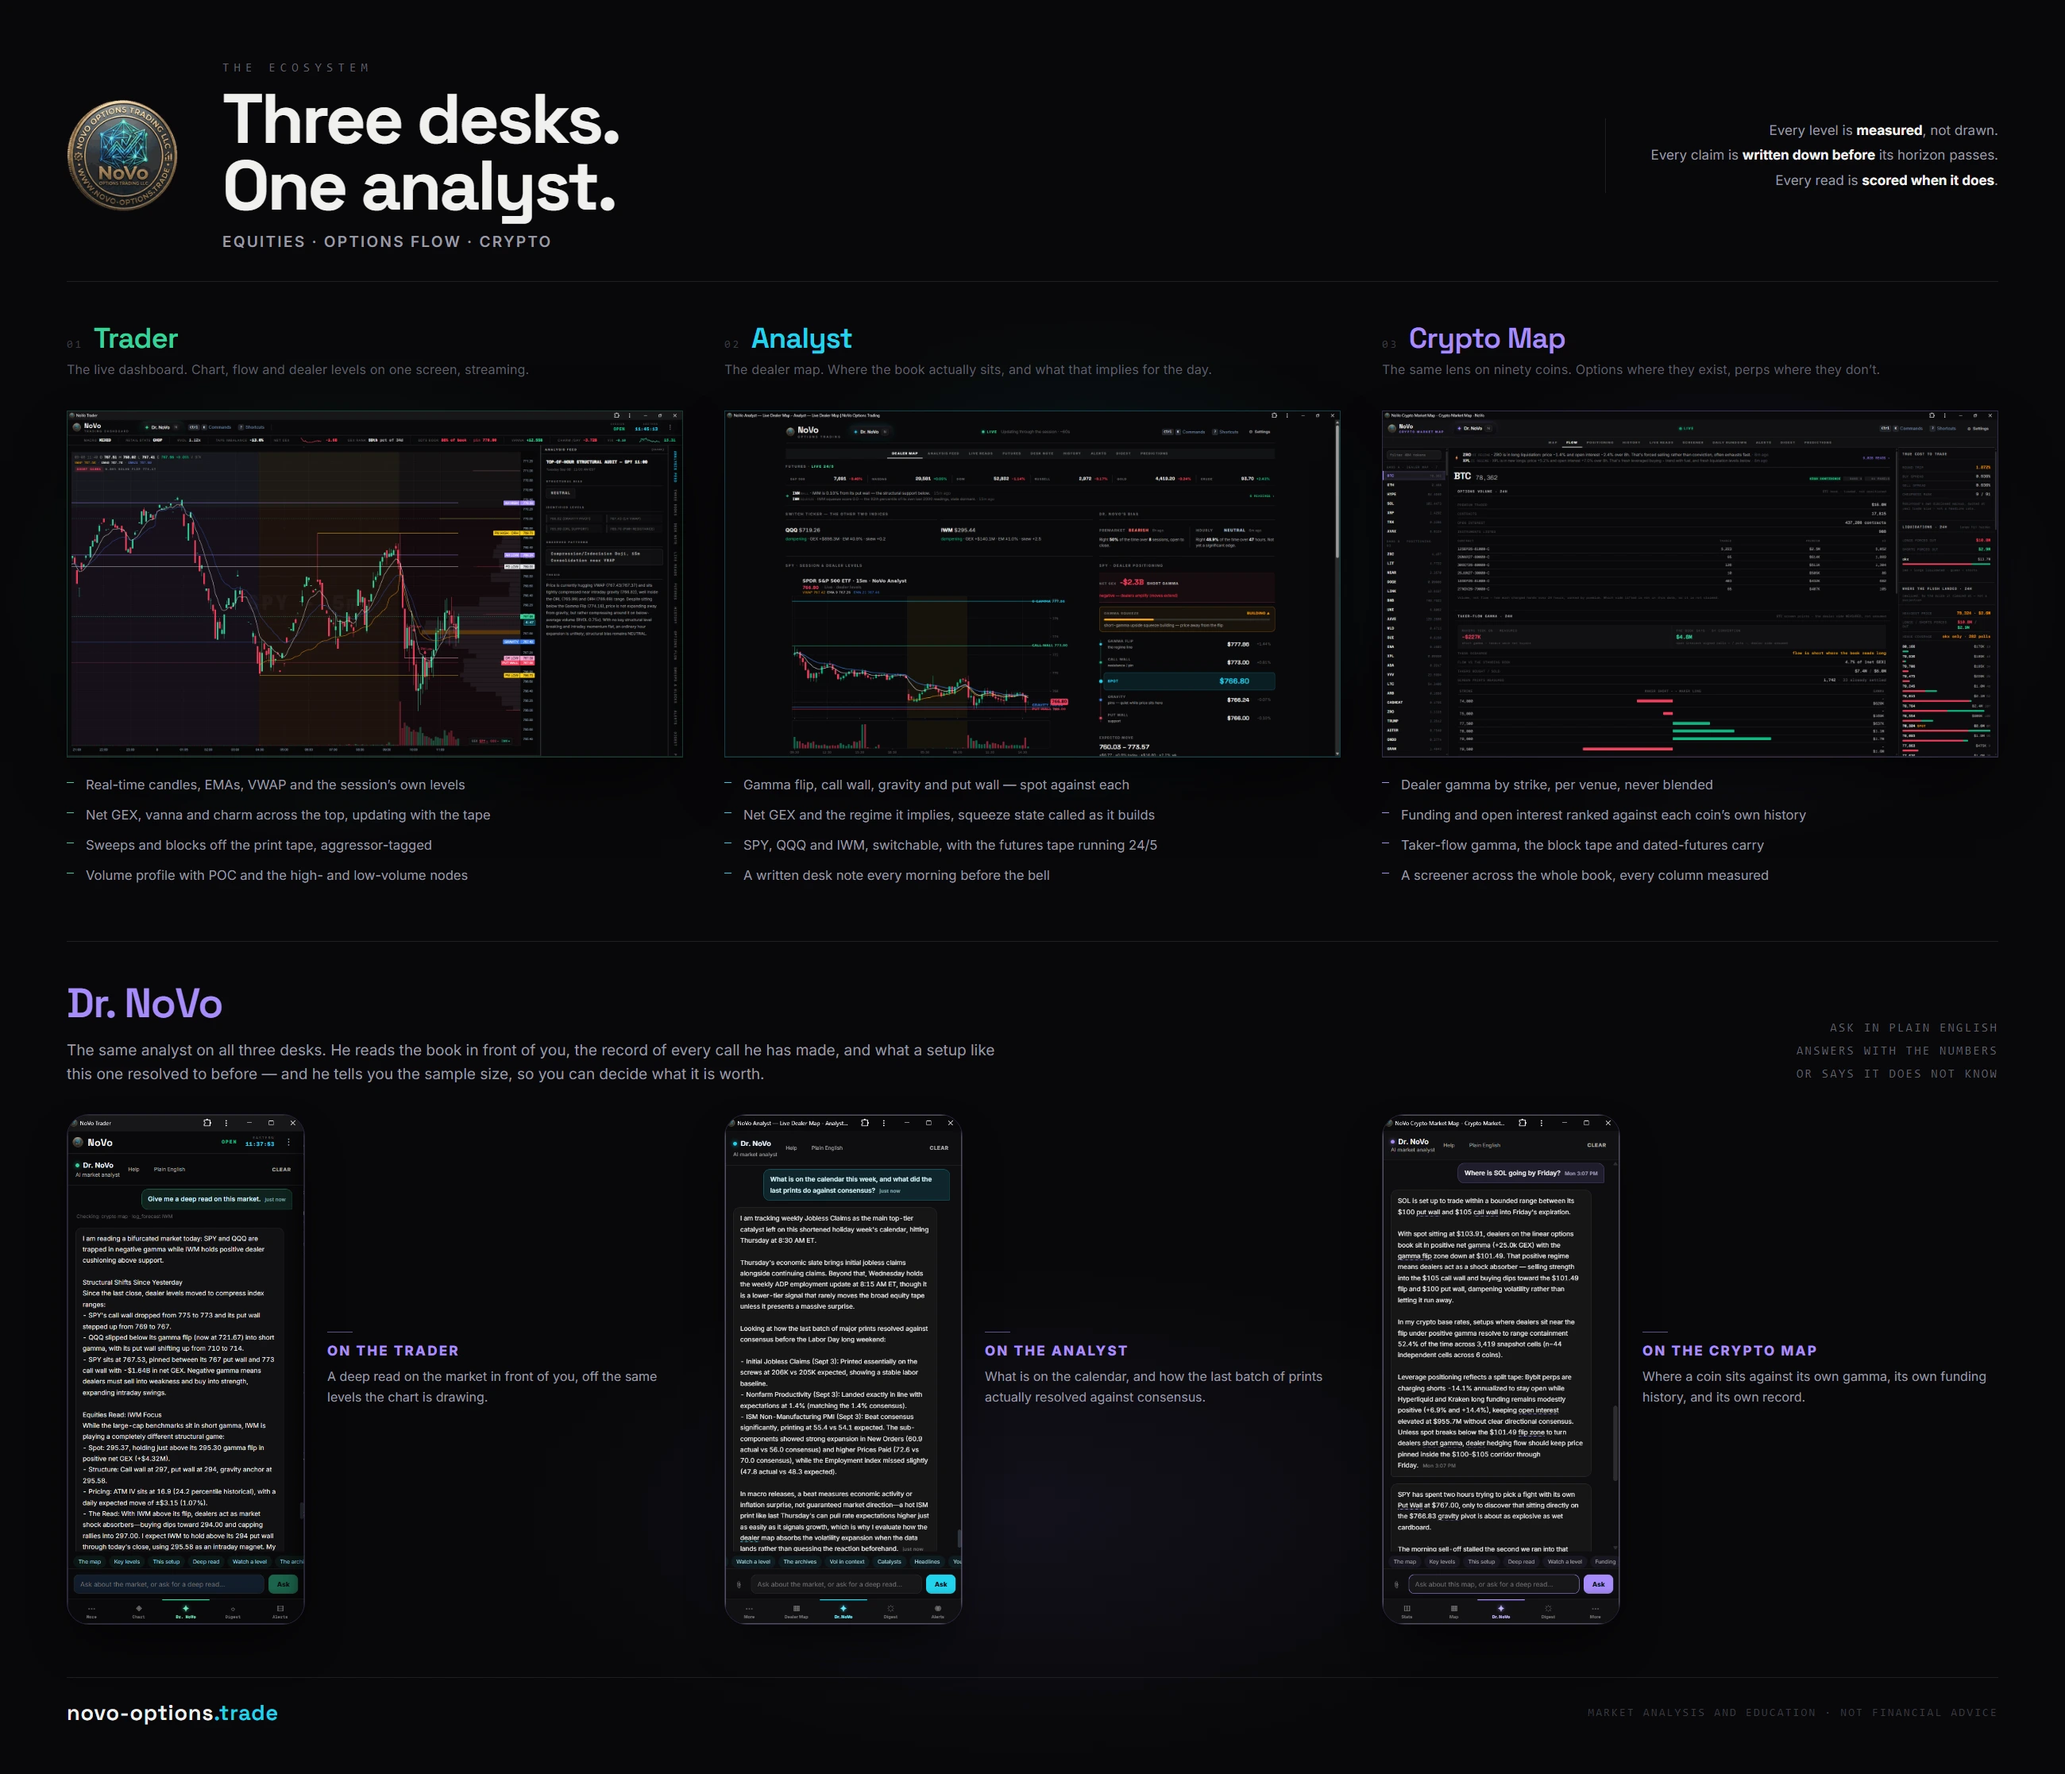
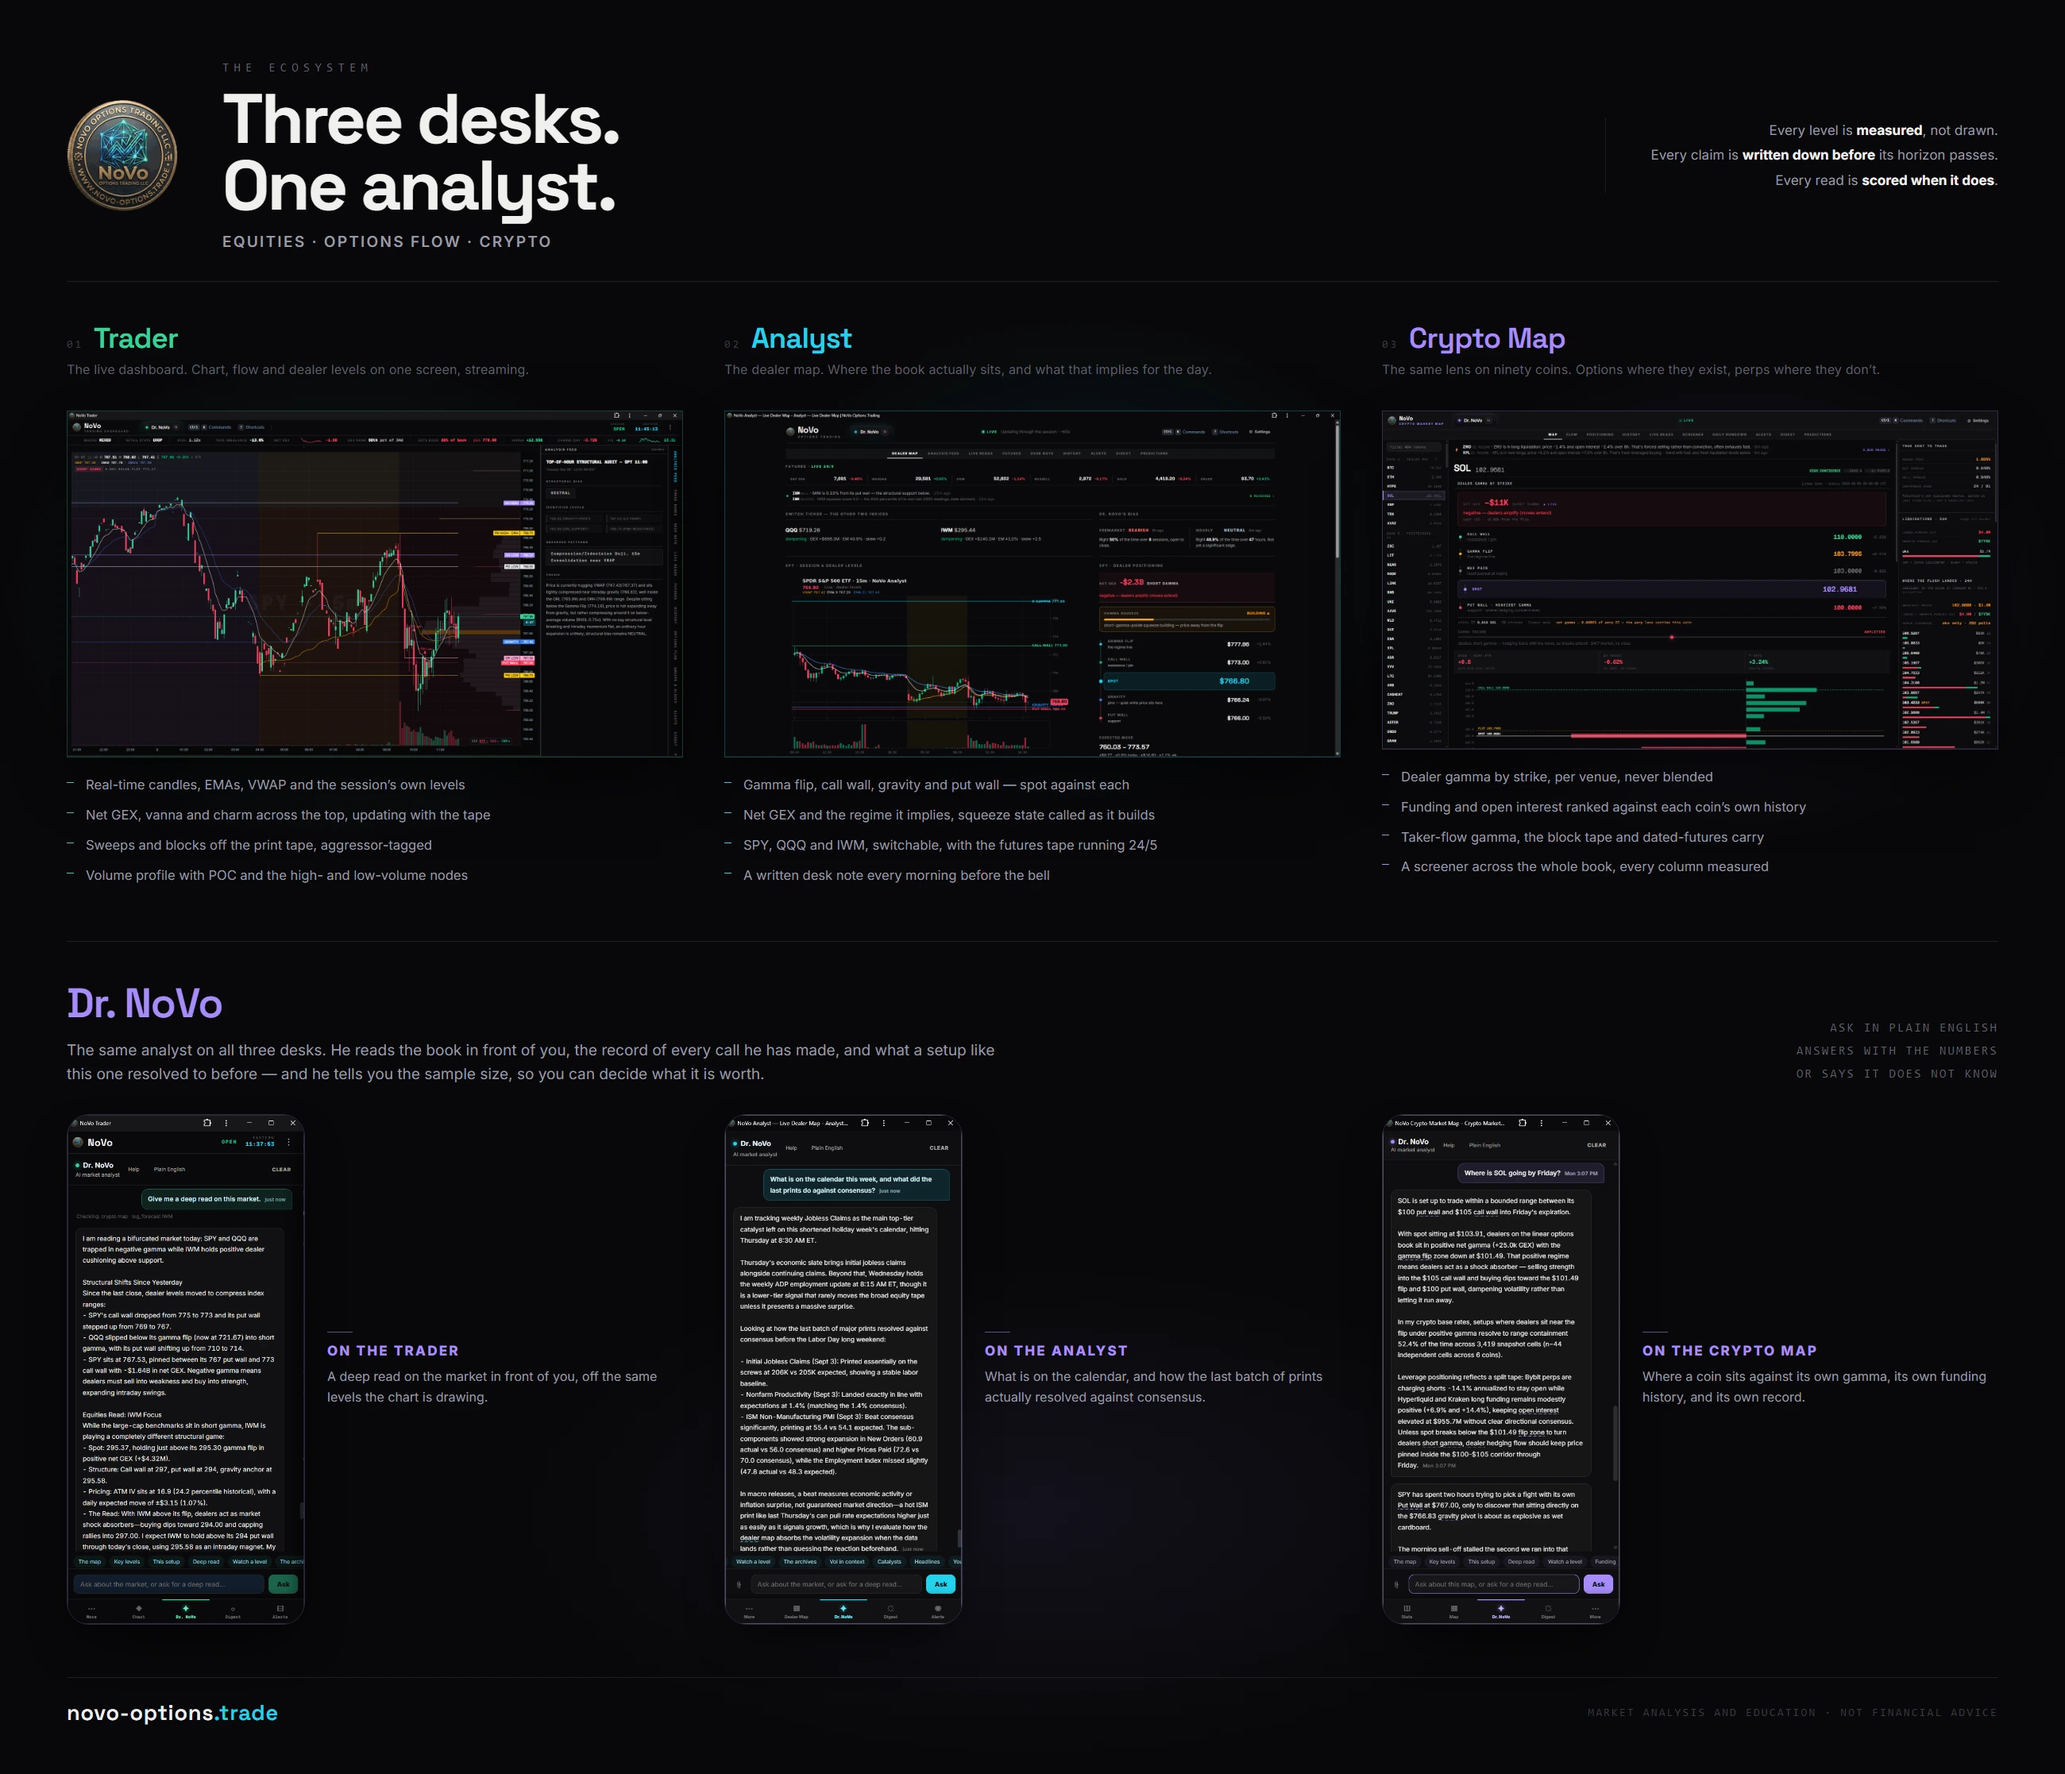
The ecosystem sheet's crypto column was not the crypto map
Jake: "you did right after i asked you to switch the analyst to the main home page
ui shot you used a crypto non-main screen shot..... thats on the site now".

Correct, and the sequence is the tell. When he asked me to swap the Analyst column
to the main Dealer Map I swapped ONLY the Analyst, and left Crypto on a secondary
view - so the sheet on the homepage showed Trader's main screen, Analyst's main
screen, and one of Crypto's inner tabs. A note that says "use the main shot" is
about the SHEET, not about the one column that prompted it.

Root cause is that I picked crypto by timestamp - shot(155831) - out of UI SHOTS.
A filename like that says nothing about which tab it is, so there was nothing to
check the choice against. Julie's committed screenshots ARE named by view, so the
sheet now pulls crypto-map-desk.webp through a new store() token in build.js:
a curated, named shot from the site's own screenshots folder. A name that states
the view cannot be mistaken for another one; a timestamp can.

?v=1 -> ?v=2 on the homepage img by hand. stamp-assets.js versions .js and .css
only, so an image swapped in place under an unchanged query string would keep
serving the old file to everyone who has already loaded the page - the asset is
immutable for a year.

The 2600 and 3900 posters in UI SHOTS were re-rendered from the same source so
they do not drift from what the site serves.

diff --git a/public/index.html b/public/index.html
@@ -670,7 +670,7 @@ height="0" width="0" style="display:none;visibility:hidden"></iframe></noscript>
      Not a mockup: every screen in it is a real capture and every word is set type, so nothing here
      claims a number the product does not produce. -->
 <figure class="eco-band">
-  <img src="/screenshots/novo-ecosystem.webp?v=1" width="2600" height="2234" loading="lazy"
+  <img src="/screenshots/novo-ecosystem.webp?v=2" width="2600" height="2234" loading="lazy"
        decoding="async"
        alt="The NoVo ecosystem: the Trader dashboard, the Analyst dealer map and the Crypto Market Map side by side, with Dr. NoVo answering on all three.">
 </figure>
